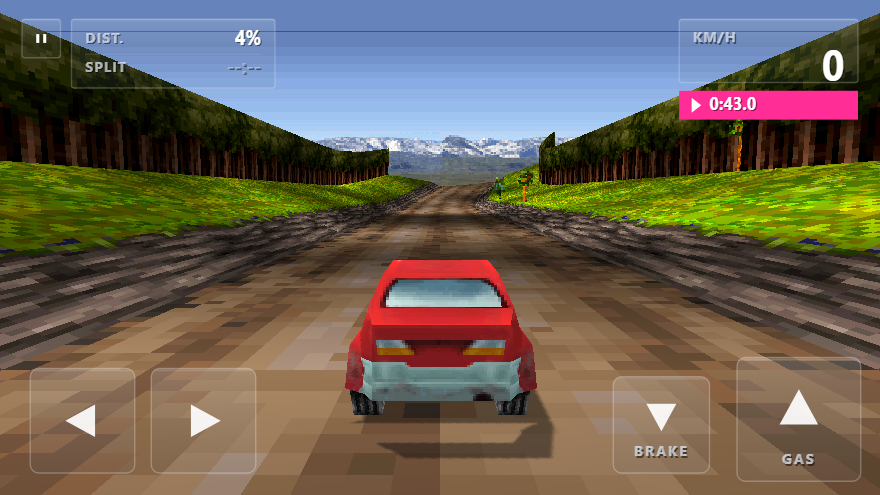
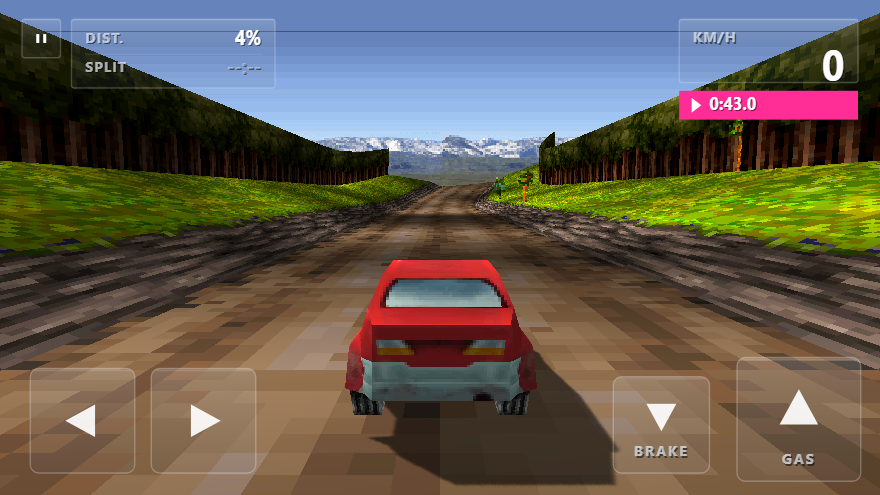
Fix the shadow on the ground, and add a camera shake
Shadow
- the old normal bias of 0.6 was pushing the shadow's lookup half a metre
  along the surface normal. It faked a strong shadow by making the car
  shadow itself, which is why the back of the car went dark and the shadow
  under it was patchy
- the bias is now scaled to the (much tighter) shadow depth range, and the
  normal bias is small, so the shadow sits where the car actually is
- the sun sits lower and is stronger against a dimmer fill, so the shadow
  reads as a shadow instead of a smudge

Camera shake
- a small rattle that grows with the square of the speed and gets rougher
  where the suspension is working (the car's attitude changing and its
  vertical motion)
- the on-car cameras shake far less - they are bolted to the body - and the
  HUD never shakes, so the readouts stay readable
- about 4cm of movement at racing speed on a smooth road, more on rough
  ground

Changed region(s): [[0.3989, 0.5455, 0.7057, 1.0], [0.2148, 0.1818, 0.2455, 0.2121], [0.0307, 0.6364, 0.0614, 0.6667]]

diff --git a/game/js/race.js b/game/js/race.js
@@ -697,6 +697,7 @@ const raceScene = {
       const l = toWorld(look[0], look[1], look[2]);
       camera.lookAt(l.x, l.y, l.z);
     }
+    this.applyShake(dt, camera);
     this.setHorizonFromLook();
     this.placeCar();
   },
@@ -720,6 +721,49 @@ const raceScene = {
     );
   },
 
+  // -------------------------------------------------- camera shake
+  // How much the camera should rattle: the faster you go and the more the
+  // suspension is working, the more. The bumpiness comes from how fast the
+  // car's attitude is changing - a steady slope gives a constant roll, which
+  // should not shake the camera at all. Kept deliberately small: it is there
+  // to make the speed felt, not to make the screen hard to read.
+  shakeAmount() {
+    const top = TOPS[R3D.game.carIdx] / 10;
+    const speedK = Math.max(0, Math.min(1, this.speed / top));
+    const dRoll = this.prevRoll === undefined ? 0 : Math.abs(this.roll - this.prevRoll);
+    const dPitch = this.prevPitch === undefined ? 0 : Math.abs(this.pitch - this.prevPitch);
+    const dY = this.prevY === undefined ? 0 : Math.abs(this.pos.y - this.prevY);
+    // how much the suspension is working: the car changing attitude and
+    // bouncing over the road
+    const rough = Math.max(0, Math.min(1, (dRoll + dPitch) * 4 + dY * 6));
+    // speed always gives a little rattle, rough ground gives a lot more
+    return speedK * speedK * (0.22 + rough * 0.55);
+  },
+
+  applyShake(dt, cam) {
+    // the on-car cameras are bolted to the body, so they rattle far less
+    const scale = this.camMode === 'hood' || this.camMode === 'bumper' ? 0.35 : 1;
+    const amt = this.shakeAmount() * 0.35 * scale;
+    if (amt >= 0.0015) {
+      this.shakeT = (this.shakeT || 0) + dt * (16 + 18 * Math.min(1, this.speed / 4));
+      const t = this.shakeT;
+      // a couple of out-of-step waves read as a rattle, not as a wobble
+      const sx = Math.sin(t * 1.9) * 0.6 + Math.sin(t * 4.3 + 1.1) * 0.4;
+      const sy = Math.sin(t * 2.6 + 0.7) * 0.5 + Math.sin(t * 5.7) * 0.5;
+      const rad = this.camYaw * Math.PI / 180;
+      // the car's right axis, so the shake is across the road and never tilts
+      const rx = Math.cos(rad), rz = Math.sin(rad);
+      cam.position.x += rx * sx * amt;
+      cam.position.z += rz * sx * amt;
+      cam.position.y += sy * amt;
+    }
+    // remember where the car was, so the next frame can see how much the
+    // suspension moved
+    this.prevRoll = this.roll;
+    this.prevPitch = this.pitch;
+    this.prevY = this.pos.y;
+  },
+
   // the contact shadow follows the car and fades as it leaves the ground
   updateShadow() {
     if (!this.lights) return;
@@ -728,9 +772,9 @@ const raceScene = {
     // right around it instead of the whole track
     sun.target.position.set(this.pos.x, this.pos.y, this.pos.z);
     sun.position.set(
-      this.pos.x + R3D.SUN[0] * 26,
-      this.pos.y + R3D.SUN[1] * 26,
-      this.pos.z + R3D.SUN[2] * 26
+      this.pos.x + R3D.SUN[0] * 22,
+      this.pos.y + R3D.SUN[1] * 22,
+      this.pos.z + R3D.SUN[2] * 22
     );
     sun.target.updateMatrixWorld();
   },
@@ -739,8 +783,8 @@ const raceScene = {
     if (!this.lights) return;
     const st = S().settings;
     const shadows = on && st.shadows !== 0;
-    this.lights.sun.intensity = on ? 0.55 : 0;
-    this.lights.ambient.intensity = on ? 0.62 : 1.0;
+    this.lights.sun.intensity = on ? 0.85 : 0;
+    this.lights.ambient.intensity = on ? 0.42 : 1.0;
     this.lights.sun.castShadow = shadows;
     if (this.car) this.car.children[0].castShadow = shadows;
     if (this.ai) this.ai.car.children[0].castShadow = shadows;

diff --git a/game/js/engine.js b/game/js/engine.js
@@ -112,20 +112,27 @@ R3D.buildCar = function (carIdx, lit, cast) {
 // shadow, but only over a small box that follows the car - a shadow map
 // across the whole track ribbon would be far too heavy for a phone.
 R3D.buildLights = function (scene) {
-  const sun = new THREE.DirectionalLight(0xfff4e0, 0.55);
-  sun.position.set(SUN[0], SUN[1], SUN[2]).multiplyScalar(26);
+  const sun = new THREE.DirectionalLight(0xfff4e0, 0.85);
+  sun.position.set(SUN[0], SUN[1], SUN[2]).multiplyScalar(22);
   sun.castShadow = true;
   sun.shadow.mapSize.set(1024, 1024);
-  const d = 13;
+  // a tight box around the car: more texels on the road, and a short
+  // near/far range so the depth comparison stays precise
+  const d = 9;
   sun.shadow.camera.left = -d;
   sun.shadow.camera.right = d;
   sun.shadow.camera.top = d;
   sun.shadow.camera.bottom = -d;
-  sun.shadow.camera.near = 1;
-  sun.shadow.camera.far = 60;
-  sun.shadow.bias = -0.0015;
-  sun.shadow.normalBias = 0.6;
-  const ambient = new THREE.AmbientLight(0xffffff, 0.62);
+  sun.shadow.camera.near = 8;
+  sun.shadow.camera.far = 40;
+  // The bias is in shadow-map depth units, so it has to be scaled to the
+  // depth range: with near 8 / far 40 that is 32 world units, and -0.0016
+  // buys about 5cm of offset - enough to kill the acne where the car meets
+  // the road, but not so much that the shadow detaches from the bodywork.
+  sun.shadow.bias = -0.0016;
+  sun.shadow.normalBias = 0.02;
+  sun.shadow.radius = 1.5;
+  const ambient = new THREE.AmbientLight(0xffffff, 0.42);
   scene.add(sun);
   scene.add(sun.target);
   scene.add(ambient);
@@ -159,7 +166,7 @@ R3D.carAnchors = function (carIdx) {
 //    (H0/H7 outermost terrain edge, H3/H4 road edges at profile col6)
 //  - strip k spans H[k]..H[k+1]; strip 3 = road
 // The sun the terrain is lit by (direction it comes FROM).
-const SUN = [0.40, 0.82, 0.41];
+const SUN = [0.44, 0.64, 0.44];
 R3D.SUN = SUN;
 
 R3D.buildTrack = function (track, opts) {

diff --git a/game/_shot.html b/game/_shot.html
@@ -79,8 +79,13 @@
       sc.timeT = num('time', 412);
       sc.speed = num('speed', 4.3);
       if (q.get('cam')) sc.setCamera(q.get('cam'));
+      if (q.has('air')) {
+        const lift = num('air', 3);
+        const orig = sc.step.bind(sc);
+        sc.step = (dt) => { orig(dt); sc.pos.y += lift; };
+      }
       if (q.get('pause')) { sc.paused = true; sc.pausePage = num('pause', 0) ? 1 : 0; }
-      await wait(400);
+      await wait(q.has('air') ? 2500 : 500);
     } else if (scene === 'newgame') {
       R.setScene(R.newGameScene);
       await waitScene(R.newGameScene);
@@ -122,7 +127,7 @@
       await waitScene(R.raceScene);
       const sc2 = R.currentScene();
       sc2.phase = 'racing'; sc2.goT = 0; sc2.timeT = 300; sc2.speed = num('speed', 3);
-      await wait(600);
+      await wait(q.has('air') ? 2200 : 600);
     }
     // walk the whole flow: new game -> a mode -> a track -> race
     if (q.get('flow')) {
@@ -136,8 +141,15 @@
       await waitScene(R.raceScene, 6000);
       const sc3 = R.currentScene();
       sc3.phase = 'racing'; sc3.goT = 0; sc3.timeT = 400; sc3.speed = num('speed', 3);
+      // lift the car off the ground to look at the shadow in the air
+      if (q.has('air')) {
+        const lift = num('air', 3);
+        const orig = sc3.step.bind(sc3);
+        sc3.step = (dt) => { orig(dt); sc3.pos.y += lift; };
+      }
       await wait(600);
     }
+    window.__carY = R.currentScene() ? R.currentScene().pos.y : -1;
     document.title = 'ready';
   }).catch((e) => { document.title = 'error: ' + e.message + ' | same=' + (window.R3D.currentScene() === window.R3D.raceScene) + ' | cur=' + (window.R3D.currentScene() ? Object.keys(window.R3D).filter(k => window.R3D[k] === window.R3D.currentScene()).join(',') : 'null') + ' | fn=' + (window.R3D.raceScene && typeof window.R3D.raceScene.setCamera) + ' | race=' + (typeof (window.R3D && window.R3D.raceScene)) + ' | ' + (window.__errs || []).join(' ; '); });
 </script>

diff --git a/tools/shot.js b/tools/shot.js
@@ -97,6 +97,10 @@ function cdp(ws) {
     } catch (e) { /* keep waiting */ }
   }
   await sleep(1200);            // let the transition and the first frames settle
+  try {
+    const dy = await send('Runtime.evaluate', { expression: 'window.__carY', returnByValue: true });
+    if (dy.result && dy.result.value !== undefined) console.log('carY=' + dy.result.value);
+  } catch (e) { /* ignore */ }
   const shot = await send('Page.captureScreenshot', { format: 'png' });
   const out = path.join(__dirname, '..', 'shots', name + '.png');
   fs.mkdirSync(path.dirname(out), { recursive: true });

diff --git a/README.md b/README.md
@@ -89,6 +89,12 @@ Settings → *Graphics*, or the same three rows in the in-race pause menu.
 | **Lighting** | Puts a sun on the track: the slopes that face the light are brighter, the ones turned away are darker, and the car picks up the same light. |
 | **Shadows** | A real shadow map. The car casts a shadow onto the road that moves with it; the shadow box follows the car, so the map only ever has to cover the road around you. |
 
+The camera also picks up a **shake** as you drive: a small rattle that grows
+with the square of your speed and gets rougher where the suspension is
+working, so crests and broken tarmac come through. The on-car cameras (hood,
+bumper) rattle far less, since they are bolted to the body. It is deliberately
+small — the HUD never shakes, so the readouts stay readable.
+
 Changing a setting rebuilds what it affects on the spot — no restart, and the
 race carries on.
 
